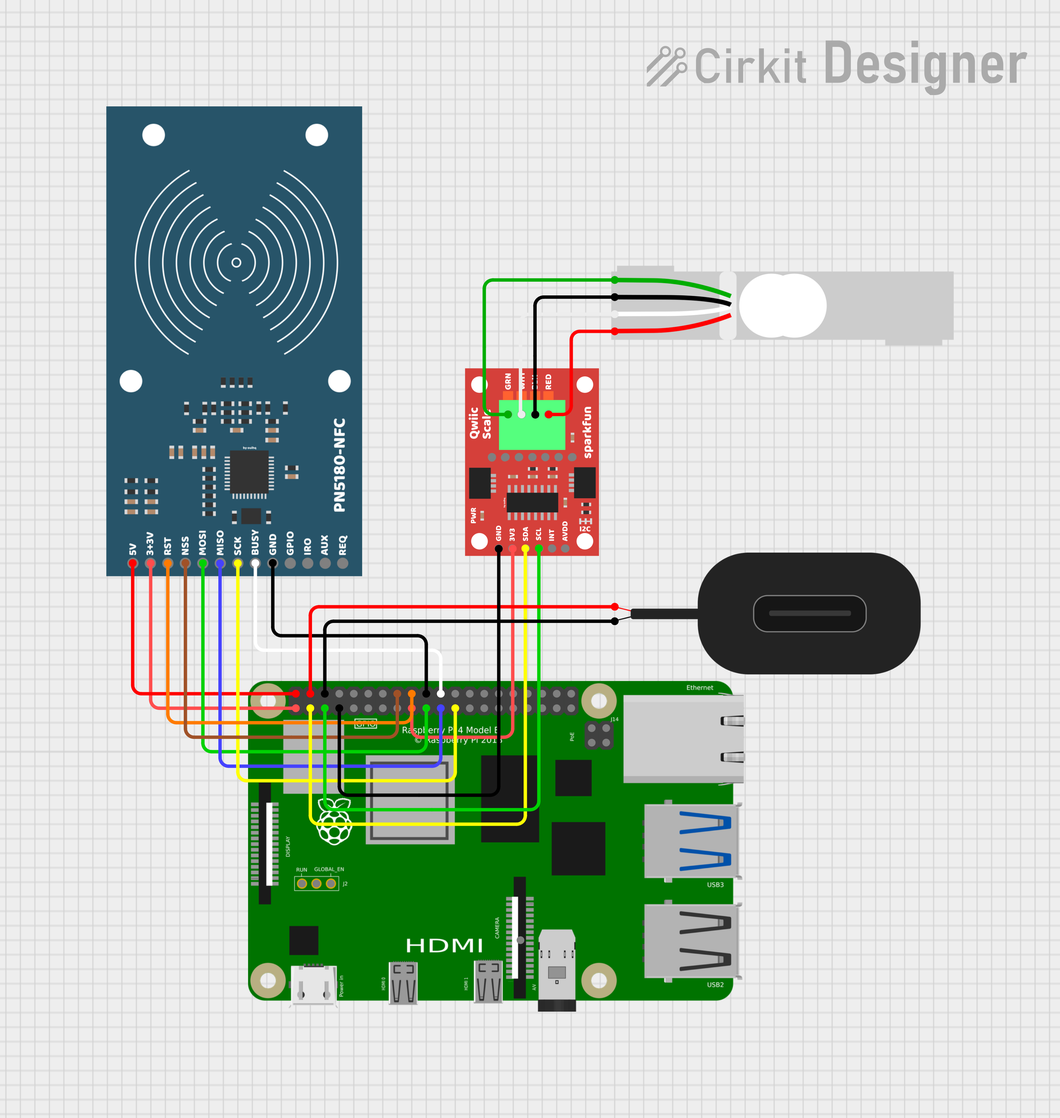
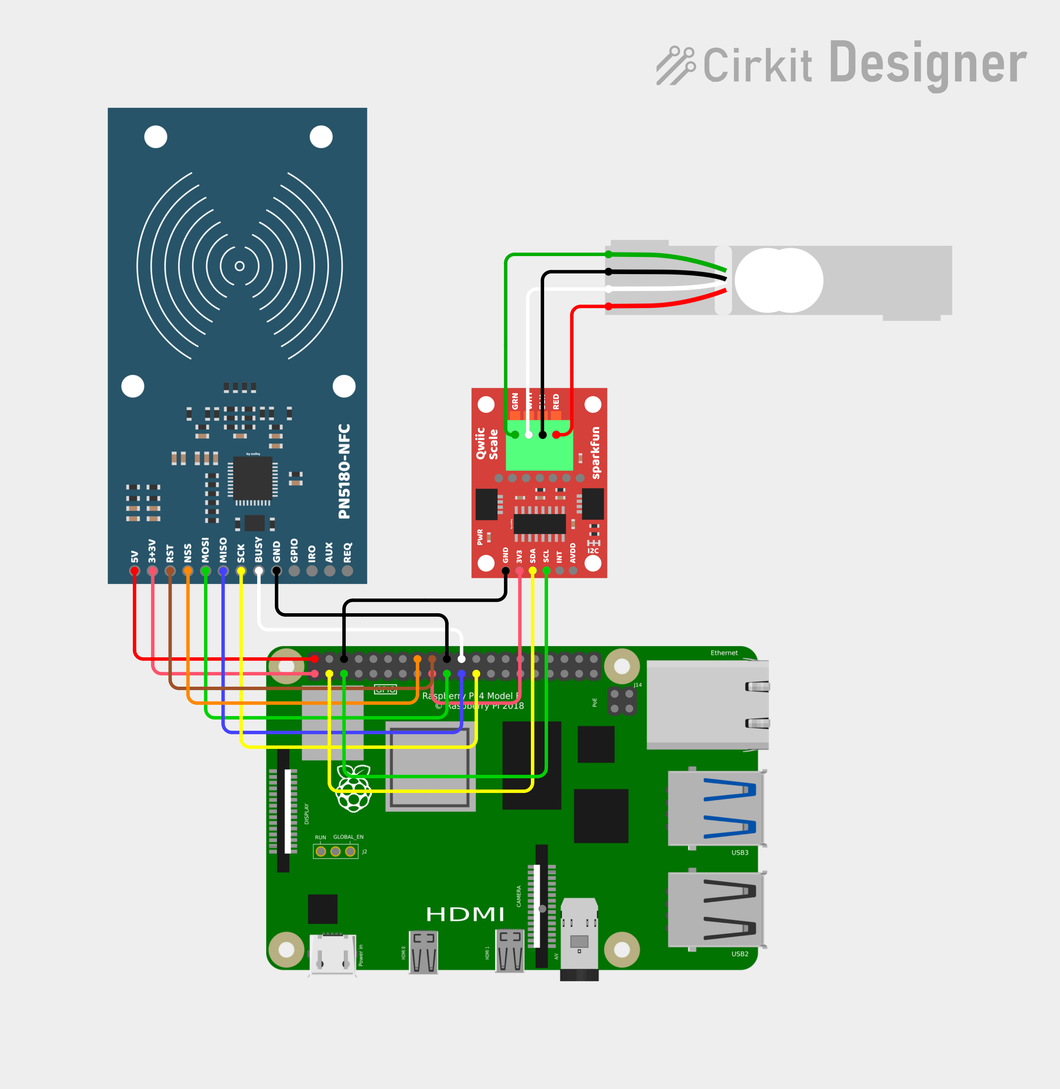
docs(spoolbuddy): update wiring diagrams and assembly hardware notes

Changed region(s): [[0.093, 0.0934, 0.899, 0.903], [0.62, 0.0311, 0.93, 0.0934]]

diff --git a/docs/spoolbuddy/wiring-diagrams.md b/docs/spoolbuddy/wiring-diagrams.md
@@ -32,13 +32,13 @@ The PN5180 communicates over **SPI0** with a **manual chip-select on GPIO23**.
 |------------|-----------|---------|-----------------|------------|-------|
 | **5V**     | ←         | —       | Pin 2           | Red        | 5 V power rail |
 | **3V3**    | ←         | —       | Pin 1           | Red        | 3.3 V power rail |
-| **RST**    | ←         | GPIO25  | Pin 22          | Orange     | Hardware reset |
-| **NSS**    | ←         | GPIO23  | Pin 16          | Yellow     | Manual chip-select (`dtoverlay=spi0-0cs`) |
-| **MOSI**   | ←         | GPIO10  | Pin 19          | Orange     | SPI0 MOSI |
-| **MISO**   | →         | GPIO9   | Pin 21          | Orange     | SPI0 MISO |
-| **SCK**    | ←         | GPIO11  | Pin 23          | Orange     | SPI0 SCLK |
-| **BUSY**   | →         | GPIO24  | Pin 18          | Blue       | Busy/wait signal |
-| **GND**    | —         | —       | Pin 20          | Black      | Ground |
+| **RST**    | ←         | GPIO24  | Pin 18          | Brown      | Hardware reset |
+| **NSS**    | ←         | GPIO23  | Pin 16          | Orange     | Manual chip-select (`dtoverlay=spi0-0cs`) |
+| **MOSI**   | ←         | GPIO10  | Pin 19          | Green       | SPI0 MOSI |
+| **MISO**   | →         | GPIO9   | Pin 21          | Blue      | SPI0 MISO |
+| **SCK**    | ←         | GPIO11  | Pin 23          | Yellow     | SPI0 SCLK |
+| **BUSY**   | →         | GPIO25  | Pin 22          | White      | Busy/wait signal |
+| **GND**    | —         | —       | Pin 20           | Black      | Ground |
 | **GPIO**   | —         | —       | —               | —          | Not connected |
 | **IRQ**    | →         | GPIO17  | Pin 11          | Purple     | Interrupt (optional) |
 | **AUX**    | —         | —       | —               | —          | Not connected |
@@ -47,23 +47,23 @@ The PN5180 communicates over **SPI0** with a **manual chip-select on GPIO23**.
 ### ASCII — PN5180 to Pi
 
 ```
-  PN5180-NFC                              Raspberry Pi 4 GPIO Header
-  ┌──────────┐                            ┌─────────────────────────┐
-  │          │                            │  (active-low CS)        │
-  │  5V    ──┼── Red ──────────────────── │── Pin  2  (5V)          │
-  │  3V3  ──┼── Red ──────────────────── │── Pin  1  (3V3)         │
-  │  RST   ──┼── Orange ──────────────── │── Pin 22  (GPIO25)      │
-  │  NSS   ──┼── Yellow ──────────────── │── Pin 16  (GPIO23)      │
-  │  MOSI  ──┼── Orange ──────────────── │── Pin 19  (GPIO10)      │
-  │  MISO  ──┼── Orange ──────────────── │── Pin 21  (GPIO9)       │
-  │  SCK   ──┼── Orange ──────────────── │── Pin 23  (GPIO11)      │
-  │  BUSY  ──┼── Blue ────────────────── │── Pin 18  (GPIO24)      │
-  │  GND   ──┼── Black ───────────────── │── Pin 20  (GND)         │
-  │  GPIO  ──┼   (NC)                    │                         │
-  │  IRQ   ──┼── Purple (optional) ──── │── Pin 11  (GPIO17)      │
-  │  AUX   ──┼   (NC)                    │                         │
-  │  REQ   ──┼   (NC)                    │                         │
-  └──────────┘                            └─────────────────────────┘
+  PN5180-NFC                            Raspberry Pi 4 GPIO Header
+  ┌──────────┐                         ┌─────────────────────────┐
+  │          │                         │  (active-low CS)        │
+  │  5V    ──┼── Red ───────────────── │── Pin  2  (5V)          │
+  │  3V3   ──┼── Red ───────────────── │── Pin  1  (3V3)         │
+  │  RST   ──┼── Brown ─────────────── │── Pin 18  (GPIO24)      │
+  │  NSS   ──┼── Orange ────────────── │── Pin 16  (GPIO23)      │
+  │  MOSI  ──┼── Green ─────────────── │── Pin 19  (GPIO10)      │
+  │  MISO  ──┼── Blue ──────────────── │── Pin 21  (GPIO9)       │
+  │  SCK   ──┼── Yellow ────────────── │── Pin 23  (GPIO11)      │
+  │  BUSY  ──┼── White ─────────────── │── Pin 22  (GPIO25)      │
+  │  GND   ──┼── Black ─────────────── │── Pin 20  (GND)         │
+  │  GPIO  ──┼   (NC)                  │                         │
+  │  IRQ   ──┼   (NC)                  │                         │
+  │  AUX   ──┼   (NC)                  │                         │
+  │  REQ   ──┼   (NC)                  │                         │
+  └──────────┘                         └─────────────────────────┘
 ```
 
 !!! info "Manual chip-select"
@@ -81,23 +81,23 @@ The SparkFun Qwiic NAU7802 communicates over **I2C bus 1** at address **`0x2A`**
 | NAU7802 Pin | Direction | Pi GPIO | Pi Physical Pin | Wire Color | Notes |
 |-------------|-----------|---------|-----------------|------------|-------|
 | **3V3**     | ←         | —       | Pin 17          | Red        | 3.3 V power |
-| **GND**     | —         | —       | Pin 9           | Black      | Ground |
-| **SDA**     | ↔         | GPIO2   | Pin 3           | White      | I2C-1 data |
-| **SCL**     | ←         | GPIO3   | Pin 5           | Yellow     | I2C-1 clock |
+| **GND**     | —         | —       | Pin 6           | Black      | Ground |
+| **SDA**     | ↔         | GPIO2   | Pin 3           | Yellow      | I2C-1 data |
+| **SCL**     | ←         | GPIO3   | Pin 5           | Green     | I2C-1 clock |
 | **INT**     | →         | —       | —               | —          | Not connected |
 
 ### ASCII — NAU7802 to Pi
 
 ```
-  SparkFun Qwiic NAU7802               Raspberry Pi 4 GPIO Header
-  ┌───────────────────┐                 ┌─────────────────────────┐
-  │                   │                 │                         │
-  │  3V3  ────────── ─┼── Red ──────── │── Pin 17  (3V3)         │
-  │  GND  ────────── ─┼── Black ────── │── Pin  9  (GND)         │
-  │  SDA  ────────── ─┼── White ────── │── Pin  3  (GPIO2 / SDA1)│
-  │  SCL  ────────── ─┼── Yellow ───── │── Pin  5  (GPIO3 / SCL1)│
-  │  INT  ────────── ─┼   (NC)         │                         │
-  └───────────────────┘                 └─────────────────────────┘
+  SparkFun Qwiic NAU7802                 Raspberry Pi 4 GPIO Header
+  ┌───────────────────┐                 ┌──────────────────────────┐
+  │                   │                 │                          │
+  │  3V3  ────────── ─┼── Red ───────── │── Pin 17  (3V3)          │
+  │  GND  ────────── ─┼── Black ─────── │── Pin  9  (GND)          │
+  │  SDA  ────────── ─┼── Yellow ────── │── Pin  3  (GPIO2 / SDA1) │
+  │  SCL  ────────── ─┼── Green ─────── │── Pin  5  (GPIO3 / SCL1) │
+  │  INT  ────────── ─┼   (NC)          │                          │
+  └───────────────────┘                 └──────────────────────────┘
 ```
 
 ---
@@ -116,13 +116,13 @@ A standard 4-wire load cell connects to the screw terminals on the SparkFun Qwii
 ### ASCII — Load Cell to NAU7802
 
 ```
-  Load Cell (5 kg)                     SparkFun Qwiic NAU7802
+  Load Cell (5 kg)                    SparkFun Qwiic NAU7802
   ┌──────────────┐                     ┌───────────────────┐
   │              │                     │  Screw Terminals  │
-  │  RED   (E+) ─┼── Red ──────────── │── E+              │
-  │  BLACK (E−) ─┼── Black ────────── │── E−              │
-  │  GREEN (A+) ─┼── Green ────────── │── A+              │
-  │  WHITE (A−) ─┼── White ────────── │── A−              │
+  │  RED   (E+) ─┼── Red ───────────── │── E+              │
+  │  BLACK (E−) ─┼── Black ─────────── │── E−              │
+  │  GREEN (A+) ─┼── Green ─────────── │── A+              │
+  │  WHITE (A−) ─┼── White ─────────── │── A−              │
   │              │                     │                   │
   └──────────────┘                     └───────────────────┘
 ```
@@ -132,98 +132,88 @@ A standard 4-wire load cell connects to the screw terminals on the SparkFun Qwii
 
 ---
 
-## :material-power-plug: USB-C Power Terminal — Pi Power Wiring
+## :material-power-plug: USB-C Power — Pi Power Wiring
 
-The SpoolBuddy case includes a panel-mounted female USB-C terminal that provides external 5 V power to the Raspberry Pi.
+An angled USB-C connector plugs into the Pi's USB-C port. The cable exits through the cutout on the back of the case, where a standard USB-C power supply can be connected.
 
-| USB-C Terminal | Direction | Pi Physical Pin | Wire Color | Notes |
-|----------------|-----------|-----------------|------------|-------|
-| **VCC**        | →         | Pin 4 (5V)      | Red        | 5 V power input |
-| **GND**        | —         | Pin 6 (GND)     | Black      | Ground |
+---
 
-### ASCII — USB-C Terminal to Pi
+## :material-wrench: Assembly Hardware
 
-```
-  USB-C Terminal (panel mount)         Raspberry Pi 4 GPIO Header
-  ┌──────────────────┐                 ┌─────────────────────────┐
-  │                  │                 │                         │
-  │  VCC ────────── ─┼── Red ──────── │── Pin 4  (5V)           │
-  │  GND ────────── ─┼── Black ────── │── Pin 6  (GND)          │
-  └──────────────────┘                 └─────────────────────────┘
-```
+### Cable Lengths
 
-!!! info "External power input"
-    This terminal is the external power entry point for the SpoolBuddy case. Connect your USB-C power supply here — it routes 5 V directly to the Pi's GPIO header pins 4 and 6.
+| Connection              | Approximate Length |
+|-------------------------|--------------------|
+| PN5180 NFC → Pi GPIO    | ~25 cm             |
+| NAU7802 Scale → Pi GPIO | ~15 cm             |
+| Load cell → NAU7802     | Measure to fit     |
+
+### GPIO Crimp Connectors
+
+Wires to the Pi GPIO header use **HARWIN M20 series** 2.54 mm pitch connectors.
+
+| Part | Description |
+|------|-------------|
+| **M20-1160042** | Female crimp contact |
+| **M20-1070300** | 3-way housing (other pin counts available in the M20-107 range) |
+
+**Crimp tools:**
+
+- **HARWIN Z20-320** — dedicated tool, produces reliable results but is expensive
+- **Generic crimp tool with SN-2549 jaw** — a more affordable alternative that works well for M20 contacts
+- **Wire stripper** — for stripping insulation before crimping
+- **Wire cutters** — for cutting wires to length
+
+### Pi GPIO Connection Options
+
+Several connector types can be used to connect wires to the Pi's GPIO pins:
+
+- **HARWIN M20 crimped connectors** *(recommended)* — reliable contact, clean fit on the 2.54 mm GPIO pins
+- **Dupont connectors** — widely available and easy to use, but can suffer from loose contact with the GPIO pins, causing signal quality issues or intermittent errors; use a multimeter in continuity mode to verify each connection before closing the case
+- **Other 2.54 mm pitch connectors** — any compatible 2.54 mm female connector housing will fit the Pi's GPIO pins
+- **Soldering directly to the Pi** — possible but very difficult; the GPIO pins are closely spaced and a bad joint or solder bridge can permanently damage the board; only attempt this if you are very confident in your soldering skills
+
+### Soldering to Modules
+
+Soldering wires directly to the PN5180 and NAU7802 module pads is straightforward and gives a reliable, permanent connection. This is the recommended approach for the module side of each harness.
+
+### Case Screws
+
+| Qty | Size  | Use                  |
+|-----|-------|----------------------|
+| 4   | M2.5  | Closing the case     |
 
 ---
 
 ## :material-chip: Full System ASCII Wiring Diagram
 
 ```
-                                    ┌──────────────────────────────────────┐
-                                    │        Raspberry Pi 4 Model B        │
-                                    │                                      │
-                                    │  Pin 1  (3V3) ──┐                   │
-                                    │  Pin 2  (5V)  ──┼──┐                │
-                                    │  Pin 3  (GPIO2) ┼──┼────────────────┼─ SDA1
-                                    │  Pin 4  (5V)  ──┼──┼──┐             │
-                                    │  Pin 5  (GPIO3) ┼──┼──┼────────────┼─ SCL1
-                                    │  Pin 6  (GND) ──┼──┼──┼──┐         │
-                                    │  Pin 9  (GND)  ─┼──┼──┼──┼──┐      │
-                                    │  Pin 11 (GPIO17)┼──┼──┼──┼──┼──────┼─ (IRQ, optional)
-                                    │  Pin 16 (GPIO23)┼──┼──┼──┼──┼──────┼─ NSS
-                                    │  Pin 17 (3V3) ──┼──┼──┼──┼──┼──┐  │
-                                    │  Pin 18 (GPIO24)┼──┼──┼──┼──┼──┼──┼─ BUSY
-                                    │  Pin 19 (GPIO10)┼──┼──┼──┼──┼──┼──┼─ MOSI
-                                    │  Pin 20 (GND) ──┼──┼──┼──┼──┼──┼──┼─ (PN5180 GND)
-                                    │  Pin 21 (GPIO9) ┼──┼──┼──┼──┼──┼──┼─ MISO
-                                    │  Pin 22 (GPIO25)┼──┼──┼──┼──┼──┼──┼─ RST
-                                    │  Pin 23 (GPIO11)┼──┼──┼──┼──┼──┼──┼─ SCK
-                                    │                 │  │  │  │  │  │  │
-                                    └─────────────────┼──┼──┼──┼──┼──┼──┼─┘
-                                                      │  │  │  │  │  │  │
-     PN5180-NFC (SPI0)                                │  │  │  │  │  │  │
-     ┌──────────────────┐                             │  │  │  │  │  │  │
-     │  3V3 ◄───────────┼─────────────────────────────┘  │  │  │  │  │  │
-     │  5V   ◄──────────┼────────────────────────────────┘  │  │  │  │  │
-     │  GND  ───────────┼──────────────────────────── Pin 20 │  │  │  │  │
-     │  RST  ◄── GPIO25 ┼──────────────────────────── Pin 22 │  │  │  │  │
-     │  NSS  ◄── GPIO23 ┼──────────────────────────── Pin 16 │  │  │  │  │
-     │  MOSI ◄── GPIO10 ┼──────────────────────────── Pin 19 │  │  │  │  │
-     │  MISO ──► GPIO9  ┼──────────────────────────── Pin 21 │  │  │  │  │
-     │  SCK  ◄── GPIO11 ┼──────────────────────────── Pin 23 │  │  │  │  │
-     │  BUSY ──► GPIO24 ┼──────────────────────────── Pin 18 │  │  │  │  │
-     │  IRQ  ──► GPIO17 ┼──────────────────────────── Pin 11 │  │  │  │  │
-     └──────────────────┘                                    │  │  │  │  │
-                                                             │  │  │  │  │
-     USB-C Power Terminal                                    │  │  │  │  │
-     ┌──────────────────┐                                    │  │  │  │  │
-     │  VCC  ◄──────────┼────────────────────────────────────┘  │  │  │  │
-     │  GND  ───────────┼───────────────────────────────────────┘  │  │  │
-     └──────────────────┘                                          │  │  │
-                                                                   │  │  │
-     SparkFun Qwiic NAU7802 (I2C-1)                                │  │  │
-     ┌──────────────────┐                                          │  │  │
-     │  3V3  ◄──────────┼─────────────────────────── Pin 17 ───────┘  │  │
-     │  GND  ───────────┼───────────────────────────── Pin 9 ──────────┘  │
-     │  SDA  ◄─► GPIO2  ┼──────────────────────────── Pin  3             │
-     │  SCL  ◄── GPIO3  ┼──────────────────────────── Pin  5             │
-     │                  │                                                 │
-     │  E+  ◄───────────┼── RED wire ──── Load Cell                      │
-     │  E−  ◄───────────┼── BLACK wire ── Load Cell                      │
-     │  A+  ◄───────────┼── GREEN wire ── Load Cell                      │
-     │  A−  ◄───────────┼── WHITE wire ── Load Cell                      │
-     └──────────────────┘                                                │
-                                                                         │
-     3V3 rail (Pin 1) ────────────────────────────────────────────────────┘
-
-     Load Cell (5 kg single-point)
-     ┌──────────────────┐
-     │  RED   (E+)      │
-     │  BLACK (E−)      │   (wired to NAU7802 screw terminals above)
-     │  GREEN (A+)      │
-     │  WHITE (A−)      │
-     └──────────────────┘
+     Raspberry Pi 4B                    PN5180 NFC (SPI0)
+ ┌─────────────────────┐              ┌──────────────────┐
+ │  Pin 1  (3V3) ──────┼──────────────┤ 3V3   [red]      │
+ │  Pin 2  (5V) ───────┼──────────────┤ 5V    [red]      │
+ │  Pin 16 (GPIO23) ───┼──────────────┤ NSS   [orange]   │
+ │  Pin 18 (GPIO24) ───┼──────────────┤ RST   [brown]    │
+ │  Pin 19 (GPIO10) ───┼──────────────┤ MOSI  [green]    │
+ │  Pin 20 (GND) ──────┼──────────────┤ GND   [black]    │
+ │  Pin 21 (GPIO9) ────┼──────────────┤ MISO  [blue]     │
+ │  Pin 22 (GPIO25) ───┼──────────────┤ BUSY  [white]    │
+ │  Pin 23 (GPIO11) ───┼──────────────┤ SCK   [yellow]   │
+ │                     │              └──────────────────┘
+ │  Pin 3  (GPIO2) ────┼──────────┐
+ │  Pin 5  (GPIO3) ────┼────────┐ │   NAU7802 Scale (I2C-1)
+ │  Pin 6  (GND) ──────┼──────┐ │ │   ┌──────────────────┐
+ │  Pin 17 (3V3) ──────┼────┐ │ │ │   │                  │
+ │                     │    └─┼─┼─┼───┤ 3V3  [red]       │
+ │                     │      └─┼─┼───┤ GND  [black]     │
+ │                     │        └─┼───┤ SCL  [green]     │
+ │                     │          └───┤ SDA  [yellow]    │
+ └─────────────────────┘              │                  │
+                                      │  E+  ────────────┼── RED   (load cell)
+                                      │  E−  ────────────┼── BLACK (load cell)
+                                      │  A+  ────────────┼── GREEN (load cell)
+                                      │  A−  ────────────┼── WHITE (load cell)
+                                      └──────────────────┘
 ```
 
 ---
@@ -287,7 +277,7 @@ sudo /opt/bambuddy/spoolbuddy/venv/bin/python \
 
     - **PN5180 not detected**: Verify 5 V is connected. Check MOSI/MISO aren't swapped. Confirm `dtoverlay=spi0-0cs` is in boot config.
     - **NAU7802 not at 0x2A**: Make sure you're on I2C bus **1** (GPIO2/GPIO3, pins 3/5). Check `dtparam=i2c_arm=on` is in boot config.
-    - **Scale reads zero**: Check load cell wiring (E+/E−/A+/A−) and confirm the NAU7802 is powered on Pin 17 (3V3) and Pin 9 (GND).
+    - **Scale reads zero**: Check load cell wiring (E+/E−/A+/A−) and confirm the NAU7802 is powered on Pin 17 (3V3) and Pin 6 (GND).
     - **Unstable NFC reads**: Keep NFC wiring short. Long or loose jumper wires cause signal degradation.
 
 ---
@@ -298,4 +288,3 @@ sudo /opt/bambuddy/spoolbuddy/venv/bin/python \
 - [Materials Required](materials.md) — Full bill of materials with shop links
 - [Installation](installation.md) — Software setup after wiring
 - [Configuration](configuration.md) — Daemon and kiosk settings
-
